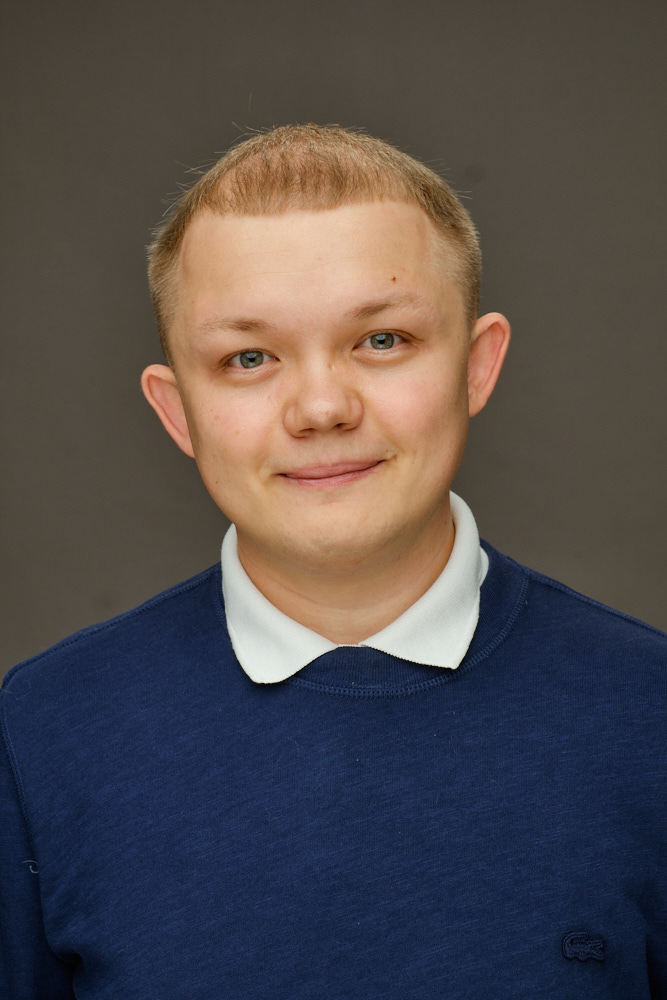
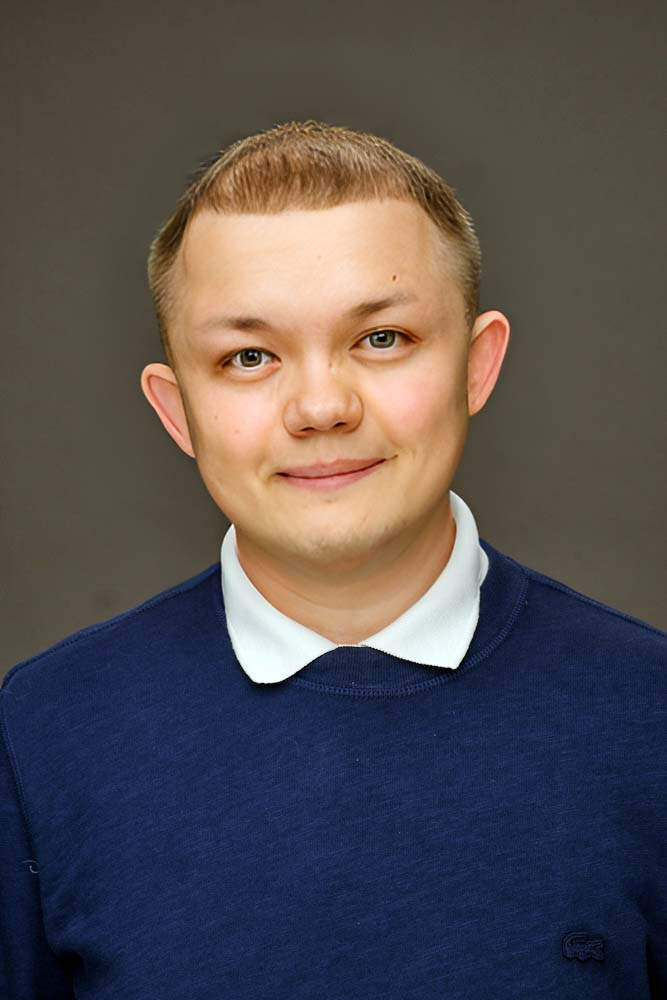
SkillBlock - styles changed, navigation added. Added new ava

Changed region(s): [[0.2099, 0.124, 0.7796, 0.527], [0.5397, 0.496, 0.7196, 0.682], [0.3298, 0.527, 0.5097, 0.682]]

diff --git a/src/components/Blocks/SkillBlock/SkillBlock.tsx b/src/components/Blocks/SkillBlock/SkillBlock.tsx
@@ -19,62 +19,48 @@ const SkillBlock:FC<SkillBlockProps> = ({skill, type}) => {
     });
     const allSkillsArray = projectsSkillsArray.concat(worksSkillsArray);
 
-    switch (type) {
-        case 'short':
-            return (
-                <li className={classes.skillBlock}>
-                    {(typeof skill == 'string') 
-                    ?
-                        <div className={classes.skillBlock__item}>
-                            <p className={ cn( "text", 
-                                            classes.skillBlock__text, 
-                                            classes.skillBlock__text_mark)
-                            }>
-                                {skill}
-                            </p>
+    if (type === 'full') {
+        return (
+            <li className={classes.fullSkillBlock}>
+                {(typeof skill == 'string') 
+                ?
+                    <div className={classes.fullSkillBlock__item}>
+                        <p className={cn("text", classes.fullSkillBlock__skillName)}
+                            onClick={() => navigate('/cv-frontend/skills/' + skill)} 
+                        >
+                            {skill}
+                        </p>
 
+                        <div className={classes.fullSkillBlock__aproveBlock}>
+                            {allSkillsArray.map( (project, i) => {
+                                if (project[2].includes(skill)){
+                                    return (
+                                        <div key={i} onClick={() => navigate(`${project[1]}`)} 
+                                                className={cn("text", 
+                                                            classes.fullSkillBlock__skillAprove)}
+                                        >
+                                            {project[0].toString()}
+                                        </div>)};
+                                return null;
+                            })}
                         </div>
-                    : 
+                    </div>
+                : 
 
-                        <div className={classes.skillBlock__item}>
-                            <p className={cn("text", 
-                                        classes.skillBlock__text, 
-                                        classes.skillBlock__text_mark)
-                            }>
+                    <div>
+
+                        <div className={classes.fullSkillBlock__item}>
+                            <p className={cn("text", classes.fullSkillBlock__skillName)}
+                                onClick={() => navigate('/cv-frontend/skills/' + skill.title)} 
+                            >
                                 {skill.title}
                             </p>
-                            <div>
-                                {skill.value.map( info => 
-                                    <p key={info} className={cn("text", 
-                                                    classes.skillBlock__text, 
-                                                    classes.skillBlock__text_markL2)
-                                    }>
-                                        {info}
-                                    </p>
-                                )}
-                            </div>
-                        </div>
-
-                    }
-                </li>    
-            )
-        case "full":
-            return (
-                <li className={classes.fullSkillBlock}>
-                    {(typeof skill == 'string') 
-                    ?
-                        <div className={classes.fullSkillBlock__item}>
-                            <p className={cn("text", classes.fullSkillBlock__skillName)}>
-                                {skill}
-                            </p>
-
                             <div className={classes.fullSkillBlock__aproveBlock}>
                                 {allSkillsArray.map( (project, i) => {
-                                    if (project[2].includes(skill)){
+                                    if (project[2].includes(skill.title)){
                                         return (
-                                            <div key={i} onClick={() => navigate(`${project[1]}`)} 
-                                                    className={cn("text", 
-                                                                classes.fullSkillBlock__skillAprove)}
+                                            <div key={i} onClick={() => navigate(`${project[1]}`)}
+                                                    className={cn("text", classes.fullSkillBlock__skillAprove)}
                                             >
                                                 {project[0].toString()}
                                             </div>)};
@@ -82,56 +68,93 @@ const SkillBlock:FC<SkillBlockProps> = ({skill, type}) => {
                                 })}
                             </div>
                         </div>
-                    : 
-
-                        <div>
-
-                            <div className={classes.fullSkillBlock__item}>
-                                <p className={cn("text", classes.fullSkillBlock__skillName)}>
-                                    {skill.title}
+                       
+                        {skill.value.map( info => 
+                            <div key={info} className={classes.fullSkillBlock__item}>
+                                <p key={info} onClick={() => navigate('/cv-frontend/skills/' + info)} 
+                                    className={cn("text", classes.fullSkillBlock__skillName)}>
+                                    {info}
                                 </p>
+
                                 <div className={classes.fullSkillBlock__aproveBlock}>
                                     {allSkillsArray.map( (project, i) => {
-                                        if (project[2].includes(skill.title)){
+                                        if (project[2].includes(info)){
                                             return (
                                                 <div key={i} onClick={() => navigate(`${project[1]}`)}
                                                         className={cn("text", classes.fullSkillBlock__skillAprove)}
                                                 >
                                                     {project[0].toString()}
-                                                </div>)};
+                                                </div>)}
                                         return null;
                                     })}
                                 </div>
+
                             </div>
-                           
-                            {skill.value.map( info => 
-                                <div key={info} className={classes.fullSkillBlock__item}>
-                                    <p key={info} className={cn("text", classes.fullSkillBlock__skillName)}>
-                                        {info}
-                                    </p>
+                        )}
+                        
+                    </div>
 
-                                    <div className={classes.fullSkillBlock__aproveBlock}>
-                                        {allSkillsArray.map( (project, i) => {
-                                            if (project[2].includes(info)){
-                                                return (
-                                                    <div key={i} onClick={() => navigate(`${project[1]}`)}
-                                                            className={cn("text", classes.fullSkillBlock__skillAprove)}
-                                                    >
-                                                        {project[0].toString()}
-                                                    </div>)}
-                                            return null;
-                                        })}
-                                    </div>
-
-                                </div>
-                            )}
-                            
-                        </div>
-
-                    }
-                </li> 
-            )
+                }
+            </li> 
+        )
     };
+    return (
+        <li className={ type ==='short' 
+                        ? cn(classes.skillBlock, classes.skillBlock__short)
+                        : classes.skillBlock}>
+            {(typeof skill == 'string') 
+            ?
+                <div className={classes.skillBlock__item}>
+                    <p className={ cn( "text", 
+                                    classes.skillBlock__text, 
+                                    classes.skillBlock__text_mark)}
+                        onClick={() => navigate('/cv-frontend/skills/' + skill)} 
+                    >
+                        {skill}
+                    </p>
+
+                </div>
+            : 
+
+                <div className={classes.skillBlock__item}>
+                    <p className={ type ==='short' 
+                                ?
+                                    cn("text", 
+                                    classes.skillBlock__text, 
+                                    classes.skillBlock__text_mark,
+                                    classes.skillBlock__text_short)
+                                :
+                                    cn("text", 
+                                    classes.skillBlock__text, 
+                                    classes.skillBlock__text_mark)}
+                        onClick={() => navigate('/cv-frontend/skills/' + skill.title)}               
+                    >
+                        {skill.title}
+                    </p>
+                    <div>
+                        {skill.value.map( info => 
+                            <p key={info} className={type ==='short' 
+                                            ?
+                                                cn("text", 
+                                                classes.skillBlock__text, 
+                                                classes.skillBlock__text_markL2,
+                                                classes.skillBlock__text_short)
+                                            :
+                                                cn("text", 
+                                                classes.skillBlock__text, 
+                                                classes.skillBlock__text_markL2)}
+                                onClick={() => navigate('/cv-frontend/skills/' + info)}  
+                            >
+                                {info}
+                            </p>
+                        )}
+                    </div>
+                </div>
+
+            }
+        </li>    
+    )
+
 
 };
 

diff --git a/src/components/ListMapper/ListMapper.tsx b/src/components/ListMapper/ListMapper.tsx
@@ -32,6 +32,14 @@ const ListMapper:FC<ListMapperProps> = ({type, name}) => {
             routPath = 'skills/soft-skills';
             listHeading = 'Soft Skills';
             break;
+        case 'hard-skills-AllList':
+            routPath = 'skills/hard-skills';
+            listHeading = 'Tech Skills';
+            break;
+        case 'soft-skills-AllList':
+            routPath = 'skills/soft-skills';
+            listHeading = 'Soft Skills';
+            break;
         case 'projects':
             routPath = 'projects';
             listHeading = "Projects";
@@ -74,6 +82,26 @@ const ListMapper:FC<ListMapperProps> = ({type, name}) => {
                     { (name === 'soft-skills') && <ul className={classes.list__list}>
                         {mainData.skills.soft.map( (skill) =>
                             <SkillBlock type={type} 
+                                        skill={skill} 
+                                        key={ (typeof skill == 'string')
+                                                ? skill
+                                                : skill.title} />
+                        )}
+                    </ul>}
+
+                    { (name === 'hard-skills-AllList') && <ul className={classes.list__list}>
+                        {mainData.skills.hard.map( (skill) =>
+                            <SkillBlock type='short-AllList' 
+                                        skill={skill} 
+                                        key={ (typeof skill == 'string')
+                                                ? skill
+                                                : skill.title} />
+                        )}
+                    </ul>}
+
+                    { (name === 'soft-skills-AllList') && <ul className={classes.list__list}>
+                        {mainData.skills.soft.map( (skill) =>
+                            <SkillBlock type='short-AllList'
                                         skill={skill} 
                                         key={ (typeof skill == 'string')
                                                 ? skill

diff --git a/src/components/Blocks/SkillBlock/SkillBlock.module.scss b/src/components/Blocks/SkillBlock/SkillBlock.module.scss
@@ -5,6 +5,11 @@
 }
 
 .skillBlock {
+    &__short {
+        &:nth-child(n+5) {
+                display: none;
+            }
+    }
     &__item {
         display: flex;
         flex-direction: column;
@@ -13,8 +18,8 @@
         display: inline;
         padding-left: 1em;
         color: $textColor-aside;
+        @extend %transition;
         &_mark {
-            cursor: default;
             &::before {
                 content: '\2022';
                 color: $circleColor-aside;
@@ -24,14 +29,21 @@
         &_markL2 {
             display: block;
             padding-left: 2em;
-            cursor: default;
             &::before {
                 content: '\2043';
                 color: $circleColor-aside;
                 padding-right: 0.5em;
             }
         }
-        
+        &_short {
+            &:nth-child(n+5) {
+                display: none;
+            }    
+        }
+        &:hover {
+            cursor: pointer;
+            color: $hoverColor;  
+        }
     }
 }
 
@@ -42,7 +54,7 @@
         grid: auto-flow /0.6fr 1.4fr;
         gap: 10px;
         margin-bottom: 10px;
-        border: 1px solid black;
+        border: 1px solid $tableBorderColor;
         border-radius: 10px;
         align-items: center;
     }
@@ -50,14 +62,18 @@
         text-align: center;
         margin-bottom: 4px;
         font-weight: 700;
-        cursor: default;
+        cursor: pointer;
+        @extend %transition;
+        &:hover {
+            color: $hoverColor; 
+        }
     }
     &__aproveBlock {
     }
     &__skillAprove {
-        
         padding-left: 2em;
         cursor: pointer;
+        @extend %transition;
         &:hover {
             color: $hoverColor; 
         }

diff --git a/src/pages/ItemPage/ItemPage.tsx b/src/pages/ItemPage/ItemPage.tsx
@@ -78,8 +78,11 @@ const ItemPage:FC<ItemPageProps> = ({type}) => {
         case 'skills' :
             return (
                 <div className={cn("container-internal", classes.itemPage)}>
-                    <ListMapper type='short' name='hard-skills' />
-                    <ListMapper type='short' name='soft-skills' />
+                    <div className={classes.itemPage__skillsPage}>
+                        <ListMapper type='short' name='hard-skills-AllList' />
+                        <ListMapper type='short' name='soft-skills-AllList' />    
+                    </div>
+                    
                 </div>
             )
 

diff --git a/src/types/list.ts b/src/types/list.ts
@@ -4,4 +4,5 @@ export interface ListMapperProps {
 }
 
 export type blockNames = 'hard-skills' | 'soft-skills' | 'works' | 
-                            'projects' | 'education' | 'about';
+                            'projects' | 'education' | 'about' |
+                            'hard-skills-AllList' | 'soft-skills-AllList';

diff --git a/src/types/block.ts b/src/types/block.ts
@@ -24,6 +24,6 @@ export interface ContactsBlockProps {
     contacts: IContact []
 }
 export interface SkillBlockProps {
-    type: 'short' | 'full',
+    type: 'short' | 'full' | 'short-AllList',
     skill : ISkill
 }

diff --git a/src/pages/ItemPage/ItemPage.module.scss b/src/pages/ItemPage/ItemPage.module.scss
@@ -1,5 +1,9 @@
 @import '/src/styles/variables.scss';
 
 .itemPage {
-
+    &__skillsPage {
+        display: grid;
+        grid: auto-flow /0.8fr 1.2fr;
+        gap: 20px;
+    }
 }

diff --git a/src/styles/variables.scss b/src/styles/variables.scss
@@ -25,3 +25,5 @@ $btnHoverColor: #E0EBFE;
 
 $sliderColor: #E0EBFE;
 $sliderBorderColor: #6D9BF5;
+
+$tableBorderColor: #A8A8A8;
